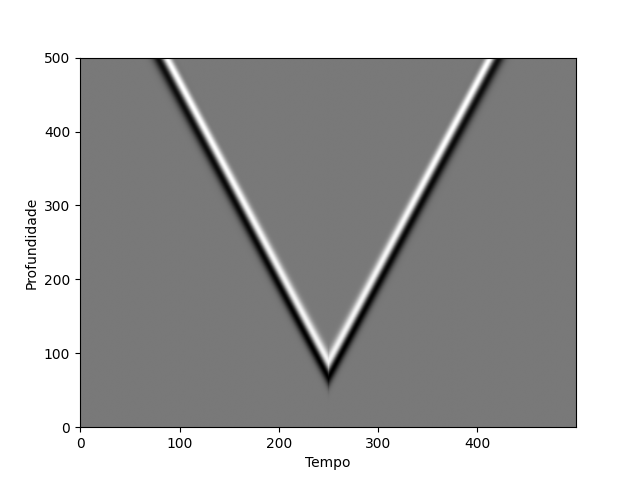
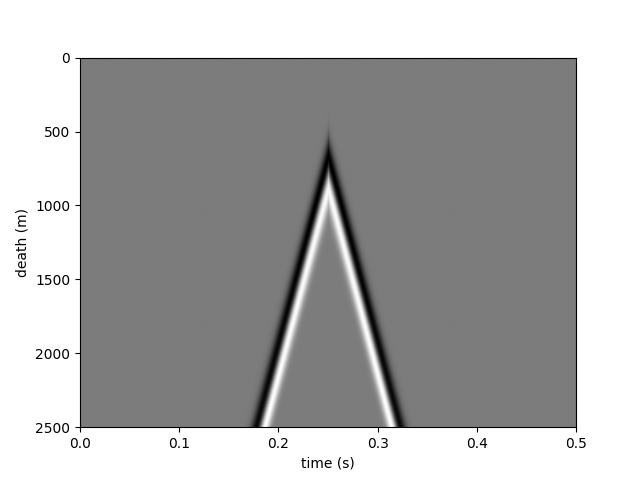
update plot

diff --git a/eq1d.py b/eq1d.py
@@ -1,7 +1,7 @@
 import numpy as np
 import matplotlib.pyplot as plt
 
-dt=0.002
+dt=0.001
 dz=5
 nz=500
 nt=500
@@ -34,17 +34,24 @@ def eq1d(P,dt,dz,nt,nz):
 
 P=eq1d(P,dt,dz,nt,nz)
 
+plt.imshow(P.T, aspect='auto', cmap='gray',
+           extent=[0, nt*dt, nz*dz, 0])
+
+plt.xlabel('time (s)')
+plt.ylabel('death (m)')
+plt.show()
 from matplotlib.animation import FuncAnimation
 
 fig,ax = plt.subplots()
 linha, = ax.plot(prof, P[:,0])
 ax.set_xlim(prof.min(), prof.max())
-ax.set_ylim(-1, 1)
+ax.set_ylim(-1.5, 1.5)
 
 def atualizar(frame):
     linha.set_ydata(P[:,frame])
-    ax.set_title(f"Tempo = {frame*dt:.3f} s")
+    ax.set_title(f"time = {frame*dt:.3f} s")
     return linha,
 
 ani = FuncAnimation(fig, atualizar, frames=nt, interval=50)
+ani.save('onda.gif',writer='pilow',fps=30)
 plt.show()

diff --git a/eq2d.py b/eq2d.py
@@ -1,0 +1,16 @@
+import numpy as np
+import matplotlib.pyplot as plt
+dt=0.001
+dz=5
+nz=500
+nt=1000
+nx=500
+dx=5
+c=1000
+
+
+tempo=np.arange(0,nt*dt,dt)
+
+prof= np.arange(0,nz*dz,dz)
+
+offset=np.arange(0,nx*dx,dx)
